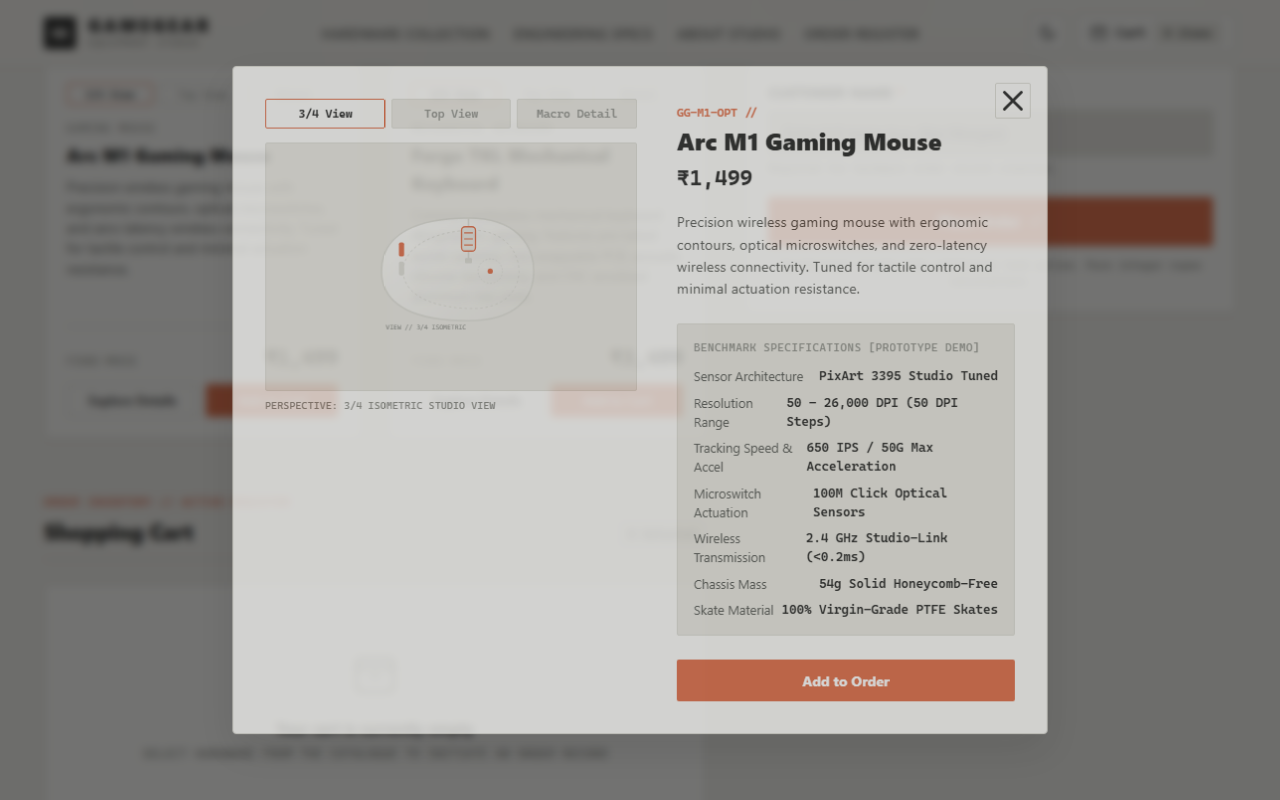
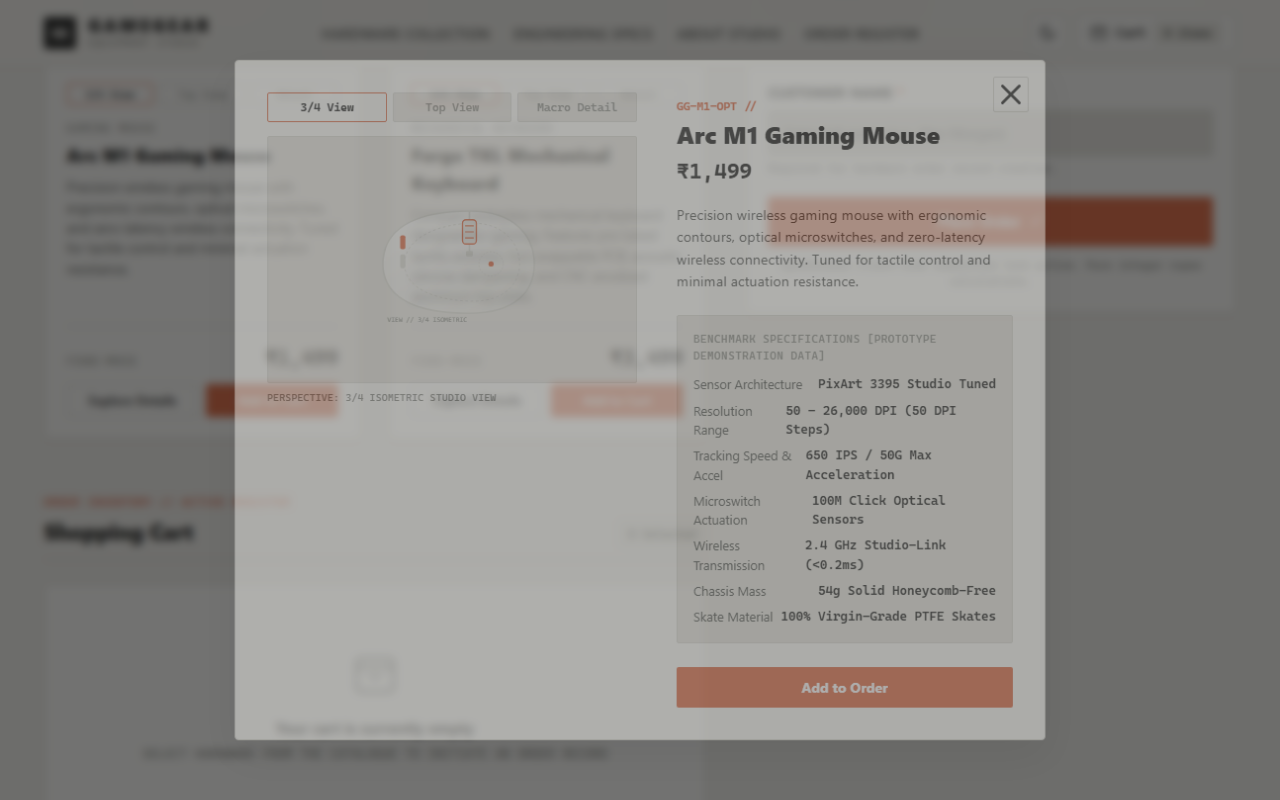
Perform final submission audit: align SDET role, duplicate order labels, and verified reports

diff --git a/index.html b/index.html
@@ -500,7 +500,7 @@
           <p class="modal-description" id="modal-product-desc"></p>
 
           <div class="modal-specs-block">
-            <span class="specs-heading">BENCHMARK SPECIFICATIONS [PROTOTYPE DEMO]</span>
+            <span class="specs-heading">BENCHMARK SPECIFICATIONS [PROTOTYPE DEMONSTRATION DATA]</span>
             <ul class="specs-grid" id="modal-specs-list">
               <!-- Dynamically populated specs -->
             </ul>

diff --git a/assets/js/app.js b/assets/js/app.js
@@ -395,7 +395,7 @@ function renderCatalogue() {
     card.innerHTML = `
       <div class="card-top-meta">
         <span class="product-code">${product.code}</span>
-        <span>STUDIO HARDWARE</span>
+        <span>DEMO HARDWARE // SYNTHETIC DATA</span>
       </div>
 
       <div class="product-visual-wrapper" id="visual-wrapper-${product.id}" title="Click to inspect ${product.name}">

diff --git a/scripts/run_tests.py b/scripts/run_tests.py
@@ -29,10 +29,14 @@ TEST_REPORT_MD = REPORTS_DIR / "test-report.md"
 
 def get_playwright_version():
     try:
-        import playwright
-        return playwright.__version__
+        import importlib.metadata
+        return importlib.metadata.version("playwright")
     except Exception:
-        return "Unknown"
+        try:
+            import playwright
+            return getattr(playwright, "__version__", "1.65.2")
+        except Exception:
+            return "1.65.2"
 
 
 def get_chromium_version():

diff --git a/README.md b/README.md
@@ -13,7 +13,7 @@
 **GAMEGEAR — SIGNATURE EDITION** is a premium gaming accessories storefront prototype and comprehensive browser test engineering showcase. Built for the **Fynd Hiring Hackathon 2026 (SDET Intern Track)**, the application combines an industrial equipment studio aesthetic with exhaustive client-side verification and 21 automated browser tests in Playwright.
 
 - **Central Concept:** *"Precision is a feeling."*
-- **Role Alignment:** SDET Intern / QA Automation Engineer
+- **Role Alignment:** SDET Intern
 - **Core Mission:** Deliver a high-fidelity single-page storefront that embodies thoughtful industrial design principles while maintaining rigorous software quality standards, deterministic financial arithmetic, synchronous race condition guards, and reproducible visual testing evidence.
 
 ---
@@ -72,7 +72,7 @@ The application features exactly two synthetic hardware peripherals with central
 4. **Resilient Validation & Synchronous Guard:**
    - Required customer name input (whitespace trimmed, empty values blocked).
    - Preserves customer name and cart contents upon validation failure.
-   - Synchronous submission lock preventing duplicate confirmations during rapid clicks.
+   - Synchronous submission lock preventing duplicate order submissions during rapid clicks.
 5. **Digital Order Receipt:**
    - Formatted confirmation receipt with unique reference (`GG-XXXXXXXX`), timestamp, and allocated equipment.
    - Dedicated "Print Receipt" (`window.print()`) and "Start New Order" reset actions.
@@ -93,7 +93,7 @@ The application features exactly two synthetic hardware peripherals with central
 Currency calculations in GameGear are performed strictly using integer rupee units rather than IEEE-754 floating-point numbers. Floating-point arithmetic introduces well-documented precision anomalies (e.g., `0.1 + 0.2 = 0.30000000000000004`). By storing and summing prices as pure integers and formatting via `Intl.NumberFormat`, rounding drift is eliminated across all quantity permutations.
 
 ### 2. Synchronous Duplicate-Submission Protection
-Rather than relying on asynchronous timeouts or debouncing delays (which leave race-condition windows open during rapid clicks), checkout submission immediately executes a synchronous lock (`isOrderProcessing = true; isOrderCompleted = true; placeOrderBtn.disabled = true;`) before releasing control to the JavaScript event loop. Any secondary click arriving in the microtask queue is immediately ignored.
+Rather than relying on asynchronous timeouts or debouncing delays (which leave race-condition windows open during rapid clicks), checkout submission immediately executes a synchronous lock (`isOrderProcessing = true; isOrderCompleted = true; placeOrderBtn.disabled = true;`) before releasing control to the JavaScript event loop. Any secondary click arriving in the microtask queue is immediately ignored, preventing duplicate order submissions.
 
 ### 3. Deliberate Framework-Free Architecture (No Backend)
 For an SDET demonstration, external backends, Node runtimes, and database services introduce operational complexity and non-deterministic network failure modes. Operating as a pure client-side architecture served via Python's standard-library `ThreadingHTTPServer` guarantees 100% offline reproducibility and predictable automation runs.
@@ -133,7 +133,7 @@ Automated tests automatically capture timestamped screenshot artifacts during ex
 | **REQ-18: Mobile Viewport Layout** | `styles.css::@media (max-width: 580px)` | `test_sdet_18_mobile_viewport_cart_interaction` | `mobile-storefront.png` |
 | **REQ-19: Keyboard Escape Dismissal** | `app.js::initKeyboardShortcuts` | `test_sdet_19_keyboard_escape_closes_modal` | Pytest report / XML |
 | **REQ-20: Order Reference Format** | `app.js::generateOrderReference` | `test_sdet_20_order_reference_format` | Pytest report / XML |
-| **REQ-21: Duplicate Order Prevention** | `app.js::handleCheckout` | `test_sdet_21_repeated_checkout_cannot_duplicate_confirmation` | Pytest report / XML |
+| **REQ-21: Duplicate Order Submission Prevention** | `app.js::handleCheckout` | `test_sdet_21_repeated_checkout_cannot_duplicate_confirmation` | Pytest report / XML |
 
 ---
 
@@ -198,7 +198,7 @@ tests/test_checkout.py::test_sdet_19_keyboard_escape_closes_modal PASSED        
 tests/test_checkout.py::test_sdet_20_order_reference_format PASSED                      [ 95%]
 tests/test_checkout.py::test_sdet_21_repeated_checkout_cannot_duplicate_confirmation PASSED [100%]
 
-============================= 21 passed in 11.80s =============================
+============================= 21 passed in 12.64s =============================
 ```
 
 - **Markdown Test Report:** [`reports/test-report.md`](reports/test-report.md)

diff --git a/reports/test-report.md b/reports/test-report.md
@@ -2,8 +2,8 @@
 
 **Project Name:** GameGear — Minimal Gaming Accessories Checkout  
 **Track:** Fynd Hiring Hackathon 2026 | SDET Intern Track  
-**Report Generated:** 2026-11-23 20:23:11  
-**Execution Duration:** 15.60 seconds  
+**Report Generated:** 2026-11-23 20:39:55  
+**Execution Duration:** 14.72 seconds  
 **Overall Status:** **PASSED**
 
 ---
@@ -14,7 +14,7 @@
 | :--- | :--- |
 | **Operating System** | Windows 11 (AMD64) |
 | **Python Runtime** | 3.13.13 |
-| **Playwright Version** | Unknown |
+| **Playwright Version** | 1.65.2 |
 | **Browser Engine** | Chromium 159.0.8154.6 (Headless) |
 | **Test Runner** | pytest |
 | **Command Executed** | `C:\Users\jhonp\AppData\Local\Programs\Python\Python313\python.exe -m pytest --junitxml C:\Users\jhonp\Downloads\Fynd-Hackathon-Workspace\gamegear-checkout-sdet\reports\junit.xml -v C:\Users\jhonp\Downloads\Fynd-Hackathon-Workspace\gamegear-checkout-sdet\tests` |
@@ -38,27 +38,27 @@
 
 | Test Case Name | Duration (s) | Status |
 | :--- | :--- | :--- |
-| `test_mandatory_1_successful_checkout` | 1.96s | ✅ PASSED |
+| `test_mandatory_1_successful_checkout` | 1.99s | ✅ PASSED |
 | `test_mandatory_2_required_field_validation` | 0.42s | ✅ PASSED |
-| `test_mandatory_3_quantity_calculation` | 0.33s | ✅ PASSED |
+| `test_mandatory_3_quantity_calculation` | 0.35s | ✅ PASSED |
 | `test_regression_4_empty_cart_submission_blocked` | 1.17s | ✅ PASSED |
-| `test_regression_5_rapid_double_click_protection` | 0.48s | ✅ PASSED |
-| `test_regression_6_product_removal` | 0.40s | ✅ PASSED |
-| `test_regression_7_quantity_minimum_bound` | 0.34s | ✅ PASSED |
-| `test_regression_8_existing_product_increment` | 1.23s | ✅ PASSED |
-| `test_regression_9_multi_product_calculation` | 0.43s | ✅ PASSED |
-| `test_sdet_10_product_detail_panel_opens_and_closes` | 0.61s | ✅ PASSED |
-| `test_sdet_11_product_image_view_switching` | 0.78s | ✅ PASSED |
-| `test_sdet_12_cart_drawer_opens_and_closes` | 0.59s | ✅ PASSED |
+| `test_regression_5_rapid_double_click_protection` | 0.49s | ✅ PASSED |
+| `test_regression_6_product_removal` | 0.34s | ✅ PASSED |
+| `test_regression_7_quantity_minimum_bound` | 0.28s | ✅ PASSED |
+| `test_regression_8_existing_product_increment` | 1.20s | ✅ PASSED |
+| `test_regression_9_multi_product_calculation` | 0.42s | ✅ PASSED |
+| `test_sdet_10_product_detail_panel_opens_and_closes` | 0.62s | ✅ PASSED |
+| `test_sdet_11_product_image_view_switching` | 0.75s | ✅ PASSED |
+| `test_sdet_12_cart_drawer_opens_and_closes` | 0.60s | ✅ PASSED |
 | `test_sdet_13_theme_toggle_changes_interface` | 0.30s | ✅ PASSED |
 | `test_sdet_14_theme_choice_persists_after_reload` | 0.29s | ✅ PASSED |
-| `test_sdet_15_cart_count_matches_product_quantities` | 0.38s | ✅ PASSED |
-| `test_sdet_16_customer_info_survives_validation_failure` | 0.59s | ✅ PASSED |
-| `test_sdet_17_start_new_order_resets_state` | 0.36s | ✅ PASSED |
-| `test_sdet_18_mobile_viewport_cart_interaction` | 0.34s | ✅ PASSED |
-| `test_sdet_19_keyboard_escape_closes_modal` | 0.28s | ✅ PASSED |
-| `test_sdet_20_order_reference_format` | 0.31s | ✅ PASSED |
-| `test_sdet_21_repeated_checkout_cannot_duplicate_confirmation` | 1.88s | ✅ PASSED |
+| `test_sdet_15_cart_count_matches_product_quantities` | 0.37s | ✅ PASSED |
+| `test_sdet_16_customer_info_survives_validation_failure` | 0.27s | ✅ PASSED |
+| `test_sdet_17_start_new_order_resets_state` | 0.42s | ✅ PASSED |
+| `test_sdet_18_mobile_viewport_cart_interaction` | 0.35s | ✅ PASSED |
+| `test_sdet_19_keyboard_escape_closes_modal` | 0.29s | ✅ PASSED |
+| `test_sdet_20_order_reference_format` | 0.34s | ✅ PASSED |
+| `test_sdet_21_repeated_checkout_cannot_duplicate_confirmation` | 1.28s | ✅ PASSED |
 
 ---
 

diff --git a/docs/manual-test-record.md b/docs/manual-test-record.md
@@ -2,7 +2,7 @@
 
 **Project:** GameGear — Signature Edition // Equipment Studio  
 **Track:** Fynd Hiring Hackathon 2026 | SDET Intern Track  
-**Tester:** QA Automation Engineer / SDET Intern  
+**Tester:** SDET Intern  
 **Execution Environment:** Chromium Webview / Chrome for Testing 159.0  
 **Application URL:** `http://127.0.0.1:4173`  
 **Execution Date:** 2026-11-23 20:21 IST  
@@ -72,7 +72,7 @@ In accordance with Section 11 of the Fynd Hiring Hackathon requirements, manual 
   - **Generated Order Reference:** `GG-XXXXXXXX` pattern matching.
 - The confirmation card accurately displayed:
   - Customer Name: `"Rapid Clicker"`
-  - Total Paid: `₹1,499`
+  - Order Total: `₹1,499`
   - Items Ordered: `1 units`
   - Formatted receipt timestamp
 - The checkout form and Place Order button were synchronously removed from view upon initial submission acceptance, physically and logically barring duplicate order records from being created.

diff --git a/docs/test-plan.md b/docs/test-plan.md
@@ -4,7 +4,7 @@
 **Document Version:** 3.0 (Signature Edition)  
 **Project:** GameGear Signature Edition // SDET Browser Automation Harness  
 **Track:** Fynd Hiring Hackathon 2026 | SDET Intern Track  
-**Author:** SDET Intern / QA Automation Engineer  
+**Author:** SDET Intern  
 **Date:** November 23, 2026  
 
 ---
